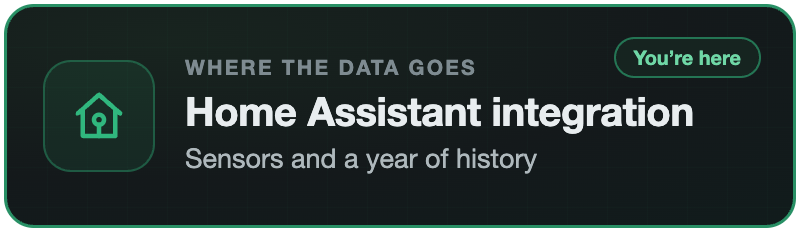
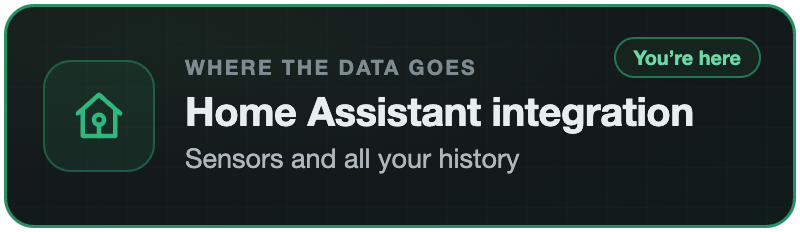
docs: The Home Assistant card says all your history (#42)

Changed region(s): [[0.4375, 0.6336, 0.6875, 0.7543]]

diff --git a/docs/brand/family-card.html b/docs/brand/family-card.html
@@ -76,7 +76,7 @@
       glyph: '<rect x="6" y="2.5" width="12" height="19" rx="2.5"/><path d="M10.5 18.5h3"/>' },
     ios: { kicker: "On your phone", name: "iPhone app", desc: "Apple Health",
       glyph: '<rect x="6" y="2.5" width="12" height="19" rx="3"/><path d="M10 5h4"/>' },
-    ha: { kicker: "Where the data goes", name: "Home Assistant integration", desc: "Sensors and a year of history",
+    ha: { kicker: "Where the data goes", name: "Home Assistant integration", desc: "Sensors and all your history",
       glyph: '<path d="M3.5 11 12 3.5l8.5 7.5"/><path d="M5.5 9.5V20h13V9.5"/><circle cx="12" cy="13.5" r="2"/><path d="M12 15.5V20"/>' },
     stack: { kicker: "Where the data goes", name: "Grafana stack", desc: "Postgres and Grafana dashboards",
       glyph: '<path d="M4 20h16"/><path d="M6.5 16v-4"/><path d="M11 16V7"/><path d="M15.5 16v-6"/><path d="M20 16V4"/>' }
